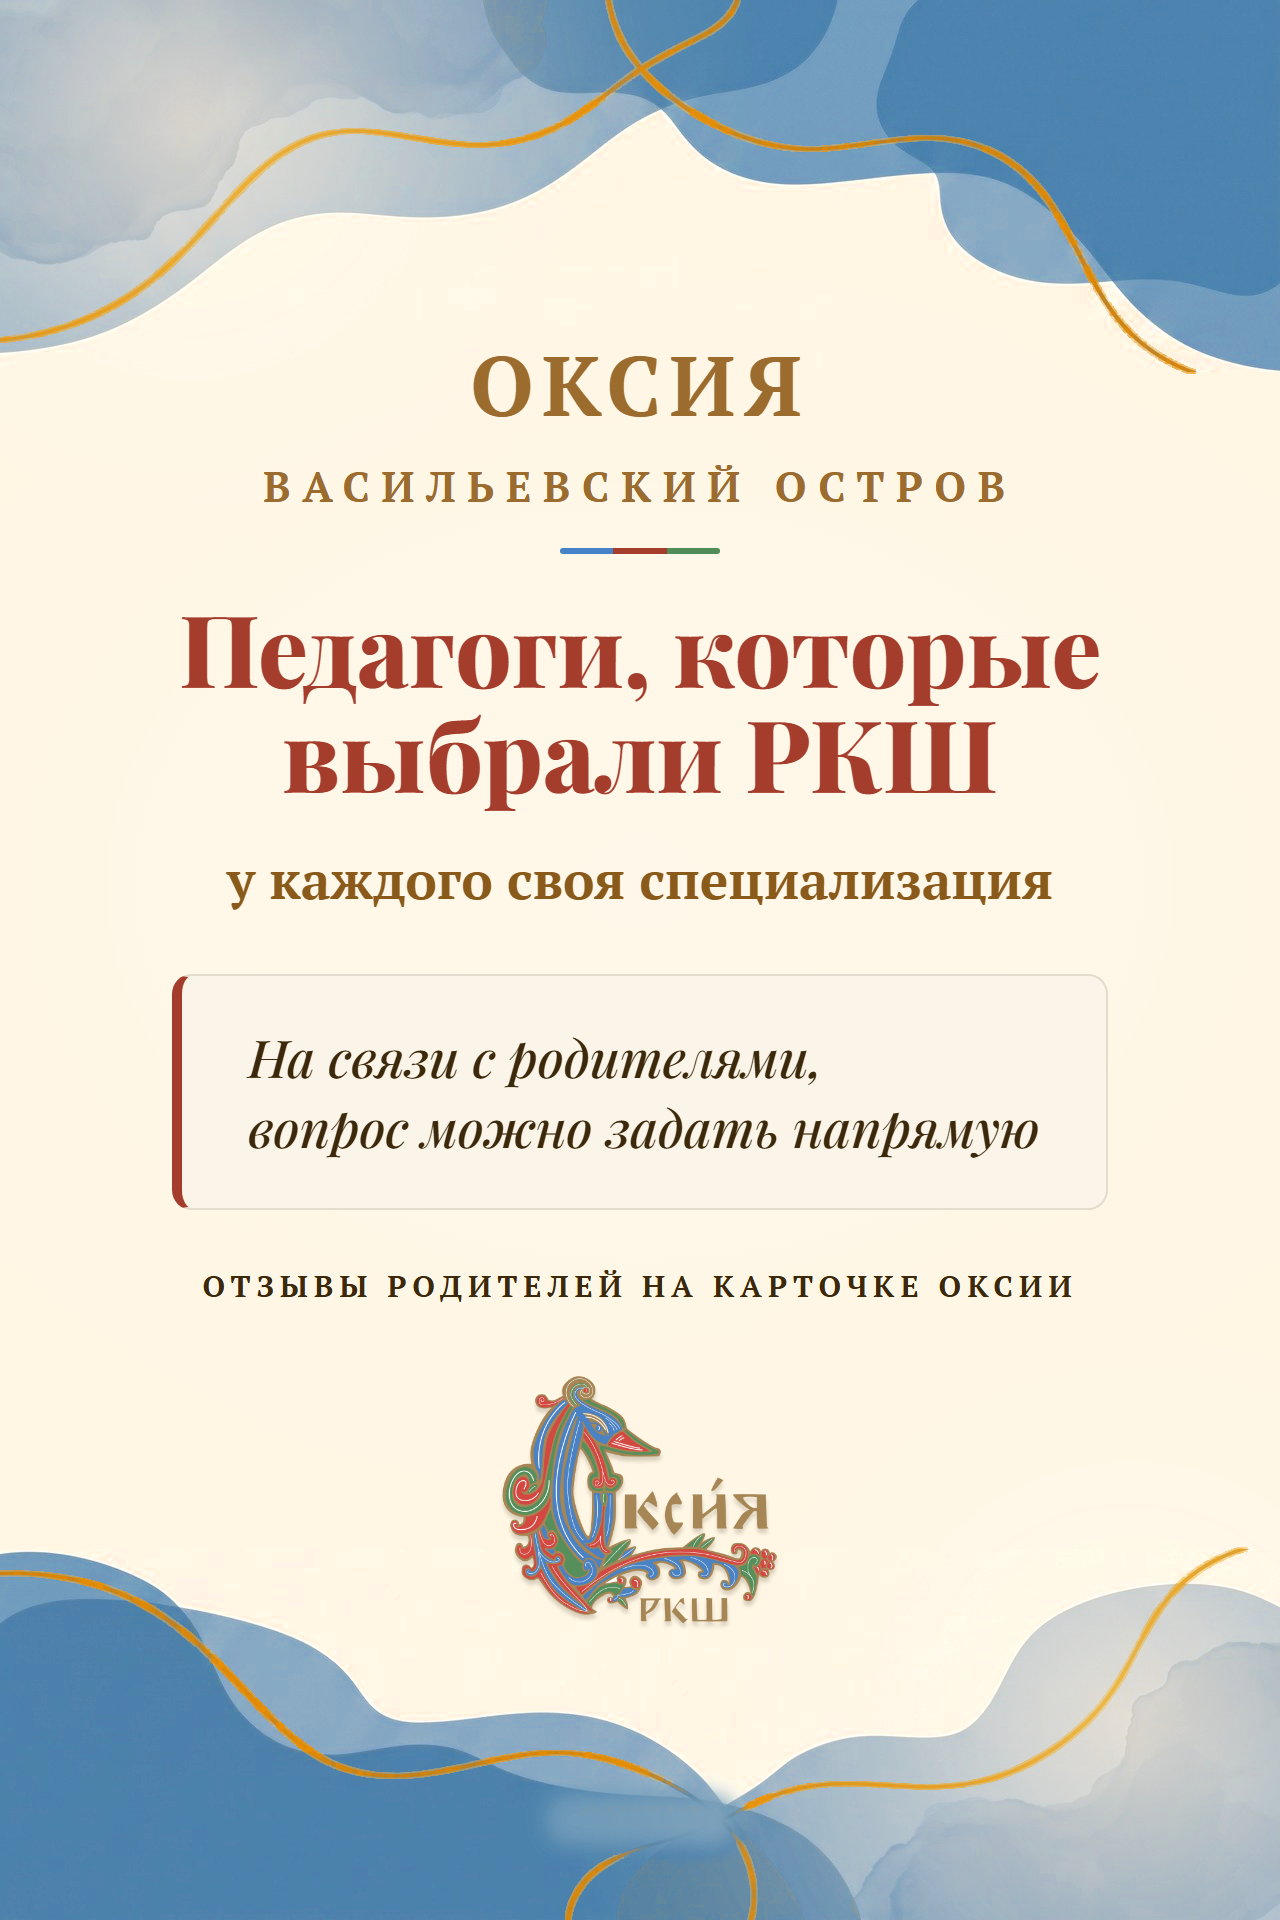
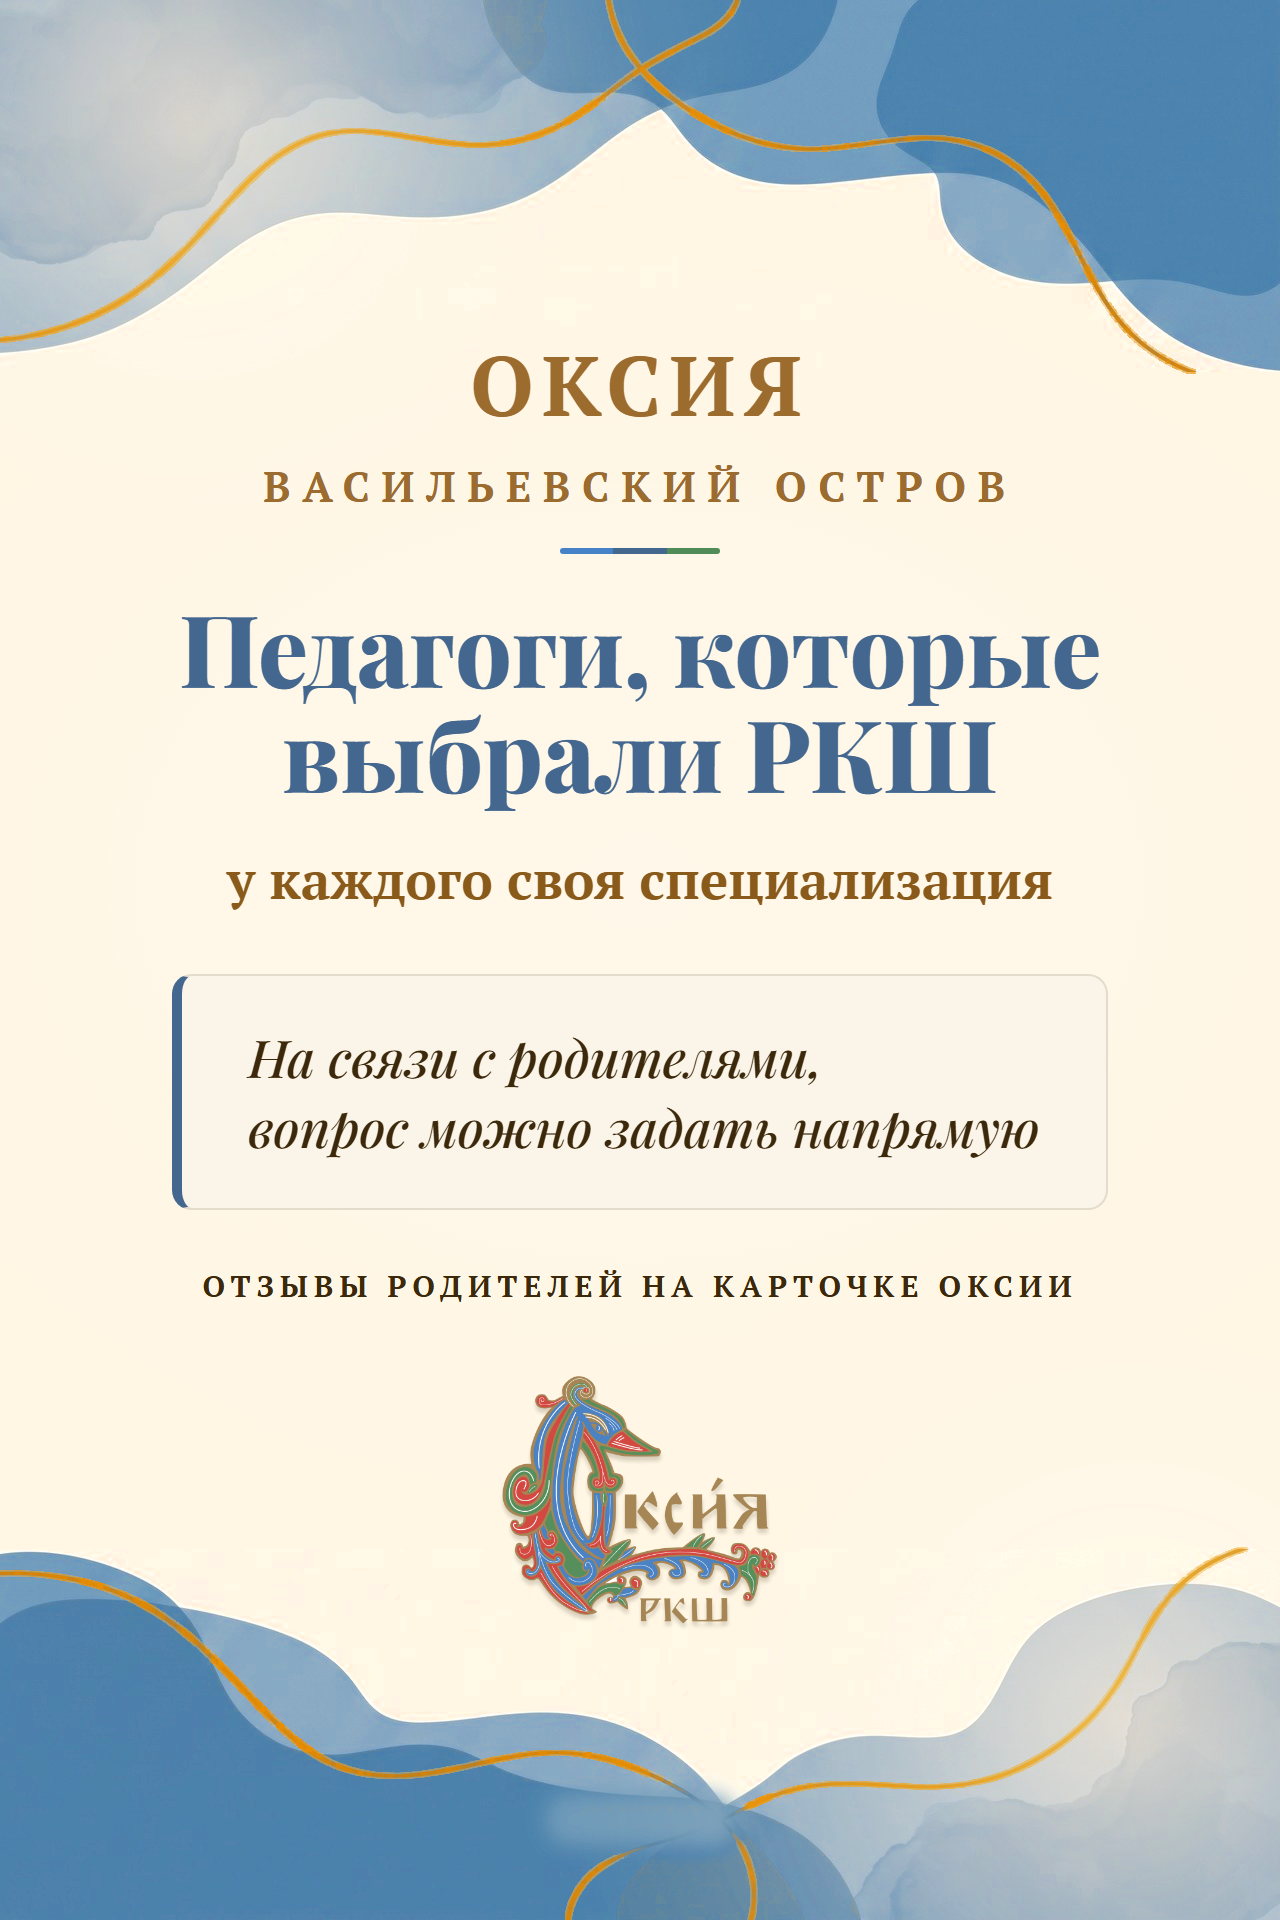
Обложки историй: разные акценты (бордо/синий/зелёный) и вариации фона
Не все обложки бордовые — цвет ротируется по палитре логотипа. Два фона
сделаны в тёплом золоте с синей акцентной линией (инверсия исходной
сине-золотой гаммы) для визуального разнообразия. Отступы от волн увеличены.

Changed region(s): [[0.125, 0.3125, 0.875, 0.4375], [0.125, 0.5, 0.1562, 0.625]]

diff --git a/story-preview/_build/story-covers-bright.html b/story-preview/_build/story-covers-bright.html
@@ -24,7 +24,6 @@
   body{
     font-family:"PT Serif",Georgia,serif;
     background:var(--cream) center/1280px 1920px no-repeat;
-    background-image:url("bg-tb-bright.png");
     color:var(--ink);
     position:relative;
   }
@@ -33,7 +32,7 @@
 
   .zone{
     position:absolute; inset:0;
-    padding:300px 116px 260px;
+    padding:320px 116px 280px;
     display:flex; flex-direction:column; align-items:center; justify-content:center;
     text-align:center;
   }
@@ -50,13 +49,13 @@
     display:flex; }
   .stripe i{ flex:1; display:block; }
   .stripe .b{ background:var(--blue); }
-  .stripe .r{ background:var(--red-muted); }
+  .stripe .r{ background:var(--accent, var(--red-muted)); }
   .stripe .g{ background:var(--green); }
 
   .disp{
     font-family:"Playfair Display",serif; font-weight:800;
     font-size:158px; line-height:1.05; letter-spacing:-.005em;
-    margin-top:40px; color:var(--red-muted);
+    margin-top:40px; color:var(--accent, var(--red-muted));
   }
   .sub{ margin-top:40px; font-size:53px; font-weight:700; color:var(--bronze); }
 
@@ -64,7 +63,7 @@
     margin-top:60px;
     background:var(--chip-bg);
     border:2px solid rgba(60,40,10,.12);
-    border-left:10px solid var(--red-muted);
+    border-left:10px solid var(--accent, var(--red-muted));
     border-radius:20px;
     padding:46px 66px;
     font-size:52px; line-height:1.34; color:var(--ink);
@@ -79,7 +78,7 @@
   }
   .phone{
     margin-top:56px;
-    font-size:53px; font-weight:700; color:var(--red-muted);
+    font-size:53px; font-weight:700; color:var(--accent, var(--red-muted));
     font-family:"Playfair Display",serif;
   }
 
@@ -95,31 +94,39 @@
 const S = {
 1:{ title:'Подготовка<br>к школе', sub:'для детей 4, 5 и 6-7 лет',
     chip:'Приходит в первый класс<br>читающим и уверенным',
-    bottom:{type:'facts', text:'малые группы · методика РКШ'} },
+    bottom:{type:'facts', text:'малые группы · методика РКШ'},
+    accent:'var(--blue-muted)', bg:'bg-tb-bright.png' },
 
 2:{ title:'Семейные<br>классы', sub:'начальная школа полного дня',
     chip:'Маленький класс, где педагог<br>видит каждого ребёнка',
-    bottom:{type:'facts', text:'методика РКШ · до 12 детей в классе'} },
+    bottom:{type:'facts', text:'методика РКШ · до 12 детей в классе'},
+    accent:'var(--red-muted)', bg:'bg-tb-bright.png' },
 
 3:{ title:'Дополнительные<br>занятия', titleSize:'118px', sub:'можно ходить отдельно от школы',
     chip:'Логопед, репетитор, каллиграфия,<br>шахматы и лепка из глины',
-    bottom:{type:'facts', text:'от 1 100 ₽ · для детей с 3 лет'} },
+    bottom:{type:'facts', text:'от 1 100 ₽ · для детей с 3 лет'},
+    accent:'var(--green-muted)', bg:'bg-tb-bright-gold.png' },
 
 4:{ title:'Педагоги, которые<br>выбрали РКШ', titleSize:'100px', sub:'у каждого своя специализация',
     chip:'На связи с родителями,<br>вопрос можно задать напрямую',
-    bottom:{type:'facts', text:'отзывы родителей на карточке ОКСИИ'} },
+    bottom:{type:'facts', text:'отзывы родителей на карточке ОКСИИ'},
+    accent:'var(--blue-muted)', bg:'bg-tb-bright.png' },
 
 5:{ title:'День идёт<br>по расписанию', sub:'класс до 12 человек',
     chip:'Перерывы, прогулка и домашние<br>задания по возрасту',
-    bottom:{type:'facts', text:'короткая обратная связь родителям'} },
+    bottom:{type:'facts', text:'короткая обратная связь родителям'},
+    accent:'var(--red-muted)', bg:'bg-tb-bright-gold.png' },
 
 6:{ title:'Три способа<br>связаться', sub:null,
     chip:'Звонок, Telegram или MAX,<br>нажмите кнопку на карточке',
-    bottom:{type:'phone', text:'+7 (921) 556-07-24'} }
+    bottom:{type:'phone', text:'+7 (921) 556-07-24'},
+    accent:'var(--green-muted)', bg:'bg-tb-bright.png' }
 };
 
 const n = parseInt(new URLSearchParams(location.search).get('n')||'2',10);
 const s = S[n];
+document.body.style.backgroundImage = `url("${s.bg}")`;
+document.getElementById('zone').style.setProperty('--accent', s.accent);
 const z = document.getElementById('zone');
 let html = `<div class="kick kick-brand">ОКСИЯ</div><div class="kick kick-loc">ВАСИЛЬЕВСКИЙ ОСТРОВ</div>`;
 html += `<div class="stripe"><i class="b"></i><i class="r"></i><i class="g"></i></div>`;

diff --git a/card-preview/index.html b/card-preview/index.html
@@ -29,12 +29,12 @@
 
   <h2>Обложки историй — на согласование</h2>
   <div class="grid">
-    <div class="card"><img src="cover-01.png" alt="Подготовка к школе"></div>
+    <div class="card"><img src="cover-01.png?v=2" alt="Подготовка к школе"></div>
     <div class="card"><img src="story-sample-01-bright.png?v=8" alt="Семейные классы"></div>
-    <div class="card"><img src="cover-03.png" alt="Дополнительные занятия"></div>
-    <div class="card"><img src="cover-04.png" alt="Педагоги, которые выбрали РКШ"></div>
-    <div class="card"><img src="cover-05.png" alt="День идёт по расписанию"></div>
-    <div class="card"><img src="cover-06.png" alt="Три способа связаться"></div>
+    <div class="card"><img src="cover-03.png?v=2" alt="Дополнительные занятия"></div>
+    <div class="card"><img src="cover-04.png?v=2" alt="Педагоги, которые выбрали РКШ"></div>
+    <div class="card"><img src="cover-05.png?v=2" alt="День идёт по расписанию"></div>
+    <div class="card"><img src="cover-06.png?v=2" alt="Три способа связаться"></div>
   </div>
 </div>
 </body>
